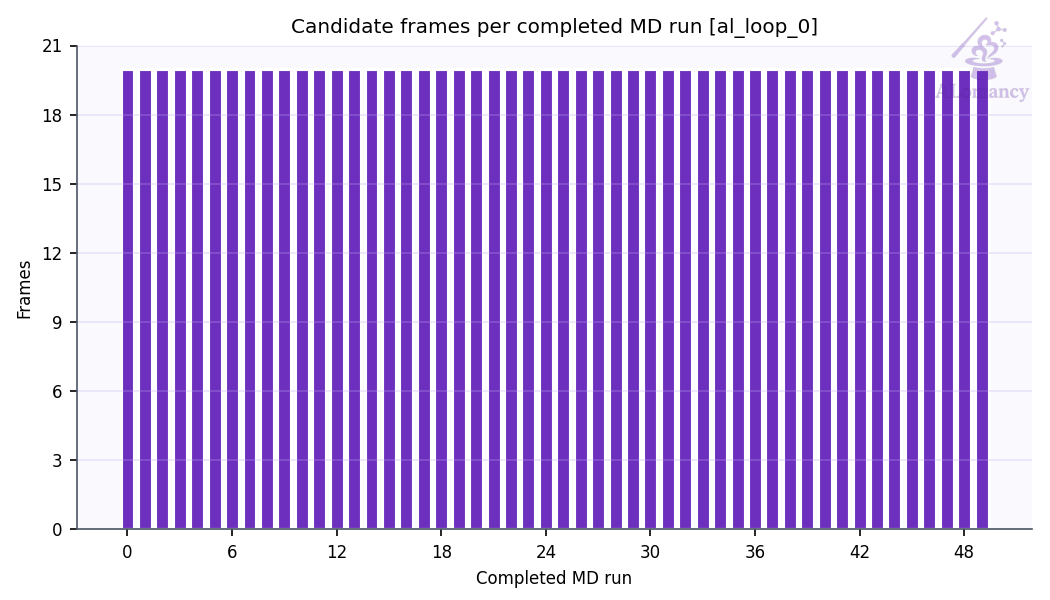
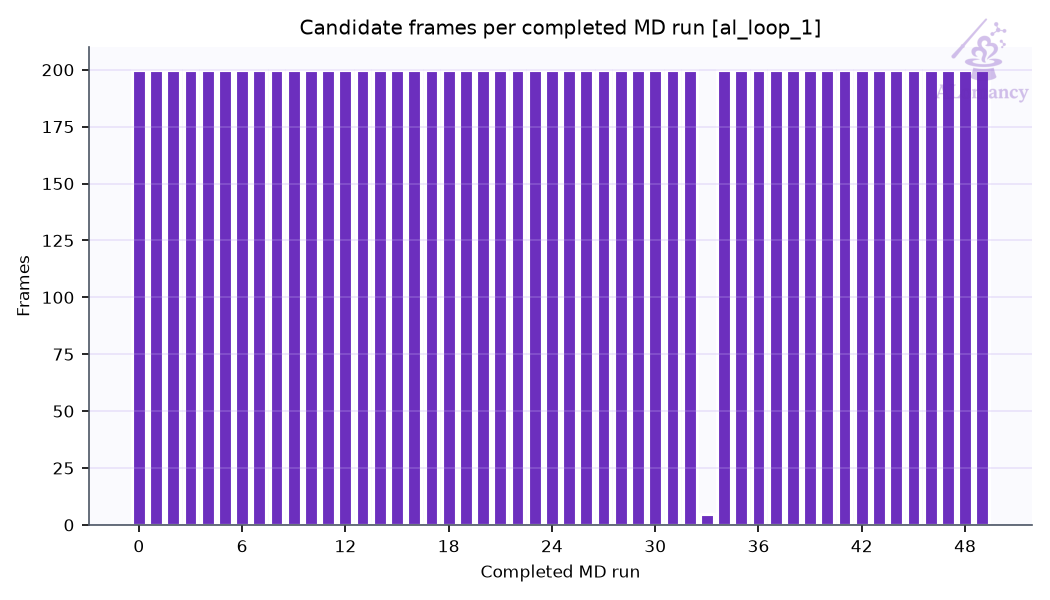
update good_c, yun_an

diff --git a/alomancy/good_c/report/report.md b/alomancy/good_c/report/report.md
@@ -1,31 +1,32 @@
-# ALomancy report: al_loop_0
+# ALomancy report: al_loop_1
 
-Workflow `committee_uncertainty` · trainer `mace` · generator `md` · evaluator `qe` · generated 2026-11-02T06:38:20
+Workflow `committee_uncertainty` · trainer `mace` · generator `md` · evaluator `qe` · generated 2026-11-04T14:19:20
 
-**Status:** 💡 1 info · 1 warning(s) logged
+**Status:** 💡 1 info · 8 warning(s) logged
 
 ## Headline
 
-| | previous | loop 0 | change |
+| | loop 0 | loop 1 | change |
 |---|---:|---:|---:|
-| Best model test force MAE (eV/Å) | n/a | 0.23 |  |
-| Best model test energy MAE (meV/atom) | n/a | 24.3 |  |
-| Training structures | n/a | 3.96e+03 |  |
-| Test structures | n/a | 408 |  |
-| New structures this loop | n/a | 115 |  |
-| Warnings / errors logged | n/a | 1 |  |
+| Best model test force MAE (eV/Å) | 0.23 | 0.219 | -5% |
+| Best model test energy MAE (meV/atom) | 24.3 | 31.5 | +30% |
+| Training structures | 3.96e+03 | 4.19e+03 | +6% |
+| Test structures | 408 | 431 | +6% |
+| New structures this loop | 115 | 292 | +154% |
+| Warnings / errors logged | 1 | 8 | +700% |
 
-Best model: fit_1 of 3 (chosen on the `valid` split).
+Best model: fit_2 of 3 (chosen on the `valid` split).
 
 ## Issues & suggestions
 
-- 💡 **overfitting**: The best model's test force MAE (0.23 eV/Å) is 2.4x its training MAE (0.0945 eV/Å). The test set covers configurations training doesn't: keep adding data, or raise general.dataset_kwargs.valid_fraction to select models on held-out data.
+- 💡 **overfitting**: The best model's test force MAE (0.219 eV/Å) is 2.8x its training MAE (0.0787 eV/Å). The test set covers configurations training doesn't: keep adding data, or raise general.dataset_kwargs.valid_fraction to select models on held-out data.
 
 ## Trends
 
 | loop | test F-MAE (eV/Å) | train | new | DFT returned | GO converged | new redundant | warnings |
 |---:|---:|---:|---:|---:|---:|---:|---:|
 | 0 | 0.23 | 3958 | 115 | 100/100 | 100% | 0 | 1 |
+| 1 | 0.219 | 4186 | 292 | 96/100 | 99% | 0 | 8 |
 
 ![Best-model MAE per loop](plots/training_al_loop_mae_plot.png)
 
@@ -41,7 +42,7 @@ No predictions stored for this loop's best model.
 |---|---:|---:|---:|---:|
 | CNa_dataset | 3538 | 392 | 662 | 4592 |
 | IsolatedAtom | 1 | 0 | 0 | 1 |
-| high_sd | 100 | 12 | 3 | 115 |
+| high_sd | 328 | 35 | 44 | 407 |
 | init_MP | 7 | 1 | 0 | 8 |
 | init_amorphous | 26 | 3 | 0 | 29 |
 | init_dimer | 99 | 0 | 0 | 99 |
@@ -50,10 +51,10 @@ No predictions stored for this loop's best model.
 | init_trimer | 50 | 0 | 0 | 50 |
 | on_hull | 1 | 0 | 0 | 1 |
 | on_hull_expansion | 11 | 0 | 9 | 20 |
-| **all** | **3958** | **408** | **1091** | **5457** |
+| **all** | **4186** | **431** | **1132** | **5749** |
 
-- Redundancy removal: 0 structure(s) flagged in total, 0 of this loop's 115 new.
-- Quality filters: high_force: 1082, formation_energy: 21.
+- Redundancy removal: 0 structure(s) flagged in total, 0 of this loop's 292 new.
+- Quality filters: high_force: 1123, formation_energy: 21.
 
 ![Training set composition](plots/training_set_composition.png)
 
@@ -61,31 +62,28 @@ No predictions stored for this loop's best model.
 
 Redundancy removal flags near-duplicate training structures, so the model isn't trained on many copies of the same geometry. Each structure is described by `char_vec_128`: all of its interatomic distances, sorted and resampled to 128 values (`global_descriptor/atomic_distance_descriptor.make_char_vec`). Two structures count as duplicates when the Euclidean distance between their descriptors is below a tolerance: in database order, each structure still in the training set is kept unless it is within the tolerance of one already kept. The plot sweeps that tolerance and counts how many structures are kept at each value. **We are looking for plateaus** (shaded): ranges where the count doesn't change, so the result doesn't depend on the exact tolerance. The orange line (right axis) is the number of structures removed between consecutive tolerance steps, the gradient of the count: zero on a plateau. The start of the lowest plateau at least `general.redundancy_kwargs.min_plateau_width` of the swept range wide is used (dashed line). Nothing is flagged when no plateau qualifies, or when it would flag more than `max_flagged_fraction` of the structures; `general.redundancy_kwargs.tolerance` sets the tolerance directly.
 
-- This loop: 3,983 structures probed; the lowest plateau would flag more than 50% of them, so nothing was flagged.
+- This loop: 4,153 structures probed; the lowest plateau would flag more than 50% of them, so nothing was flagged.
 
 ![Redundancy tolerance probe](plots/redundancy_tolerance_probe.png)
 
 ## DFT
 
-- Structures: 100 returned of 100 submitted (100 relaxed, 0 single point).
-- Geometry optimisation: 100/100 reached the force ceiling (0.05 eV/Å); steps mean 21.1, median 19, max 75 of 200 allowed.
-- Average DFT time per relaxation: 20.7 min (median 10.2, max 153.2; 100 structures).
-- Largest per-atom force after DFT: median 0.04, max 0.05 eV/Å.
-
-**Structures added to the dataset this loop (final DFT geometries)**
-
-![Structures added to the dataset this loop (final DFT geometries)](plots/added_structures.gif)
+- Structures: 96 returned of 100 submitted (96 relaxed, 0 single point).
+- Geometry optimisation: 95/96 reached the force ceiling (0.05 eV/Å); steps mean 29.5, median 24, max 200 of 200 allowed.
+- Average DFT time per relaxation: 123.9 min (median 62.2, max 869.9; 96 structures).
+- Largest per-atom force after DFT: median 0.05, max 0.07 eV/Å.
+- DFT phase wall-clock: 19.5 h (mean queue time 230 min).
 
 ## MLIP training: mace
 
-- Best fit (fit_1) trained for 299 epochs, stage two from epoch 240; weights kept from epoch 243.
+- Best fit (fit_2) trained for 299 epochs, stage two from epoch 240; weights kept from epoch 256.
 
 ![Best model training curve](plots/best_model_training_curve.png)
 
 ## Structure generation: MD
 
-- Runs: 51 (50 completed, 1 seed(s) replaced)
-- Candidate frames: 1000 (per completed run: median 20, min 20)
+- Runs: 50 (50 completed, 0 seed(s) replaced)
+- Candidate frames: 1000 (per completed run: median 200, min 5)
 - Ensemble npt, T = 300 K, timestep 0.3 fs
 
 ![MD frames per run](plots/md_frames_per_run.png)
@@ -100,7 +98,7 @@ Redundancy removal flags near-duplicate training structures, so the model isn't 
 
 ## Selection: committee uncertainty
 
-- 1000 candidates scored; 100 selected (10 %; max force std dev ≥ 0.559 eV/Å).
+- 832 candidates scored; 100 selected (max force std dev ≥ 0.34 eV/Å).
 
 ![Committee force std dev](plots/committee_force_std_dev.png)
 
@@ -108,8 +106,12 @@ Redundancy removal flags near-duplicate training structures, so the model isn't 
 
 | event | meaning | count |
 |---|---|---:|
+| `blown_up_excluded` |  | 1 |
+| `database_recovered` | database restored after being replaced on disk | 1 |
 | `dft_summary` | DFT batch summary | 1 |
-| `jobs_started` | remote jobs started | 5 |
+| `job_failed` | remote job failed | 4 |
+| `jobs_started` | remote jobs started | 4 |
 | `md_summary` | MD summary | 1 |
+| `md_volume_expanded` |  | 1 |
 | `quality_filtered` | train/test quality filter passes | 2 |
 | `redundancy_cap_hit` | redundancy removal skipped (would flag too many) | 1 |
